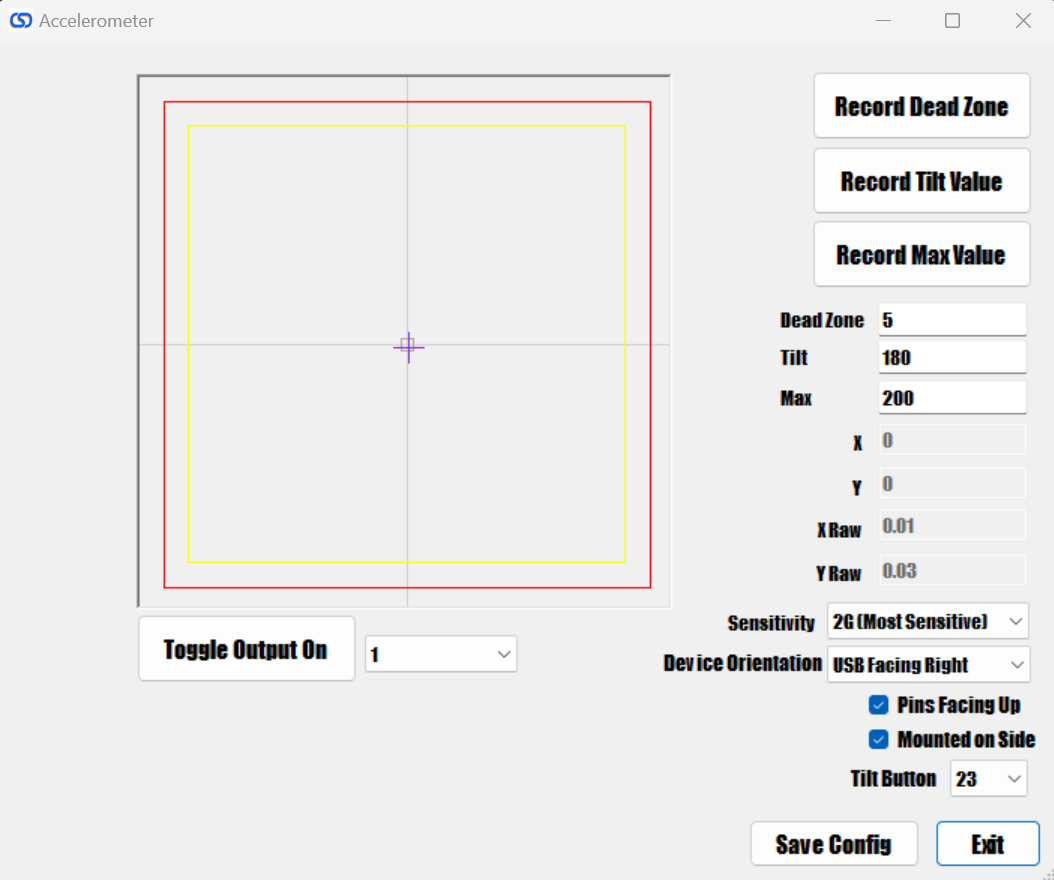
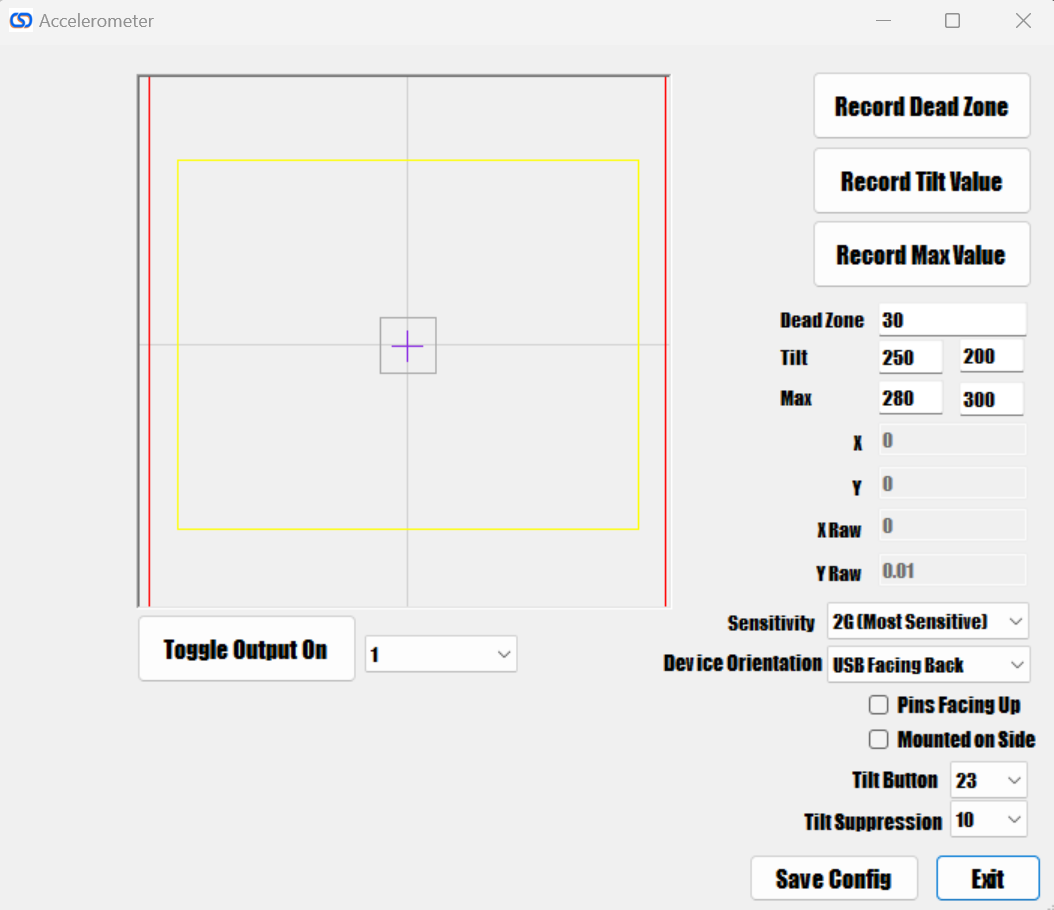
added more popper troubleshooting

diff --git a/docs/PinOne/Troubleshooting/popper.md b/docs/PinOne/Troubleshooting/popper.md
@@ -4,6 +4,26 @@ sidebar_position: 2
 
 # PinUp Popper issues 
 
+## game buttons not responding
+
+First check that your game controller is properly responding in windows USB game controllers:
+
+1. Click start and type "USB Game" and click on USB Game Controllers:
+
+![USB Game Controllers](./img/popper1.png)
+
+2. go to properties
+
+![USB Game Controllers](./img/popper2.png)
+
+Ensure that the controller is responding to button presses, plunger movement etc. If not, then follow these steps to fix the game controller: [windows game settings](game-controller)
+
+If the controller is operating fine there, then check for any buttons being permanently pushed down. Button 23 being pushed down is usually the tilt button. If this is the case, then check your accelerometer settings, ensuring they are set properly: [Accelerometer Calibration](../Configuring/accelerometer)
+
+![Accelerometer Settings](./img/popper7.png)
+
+Also check to make sure the plunger is calibrated with the right resting position: [Plunger Calibration](../Configuring/plunger)
+
 ## "Invalid Floating Point Operation"
 
 If you get the "Invalid Floating Point Operation" in Pinup Popper with a PinOne installed, it is likely due to a problem with the Z axis or the accelerometer calibration. You can fix this by going into the PinOne calibration menu, or if you don't have a plunger connected, you can simply run through the windows calibration to set everything correctly:
